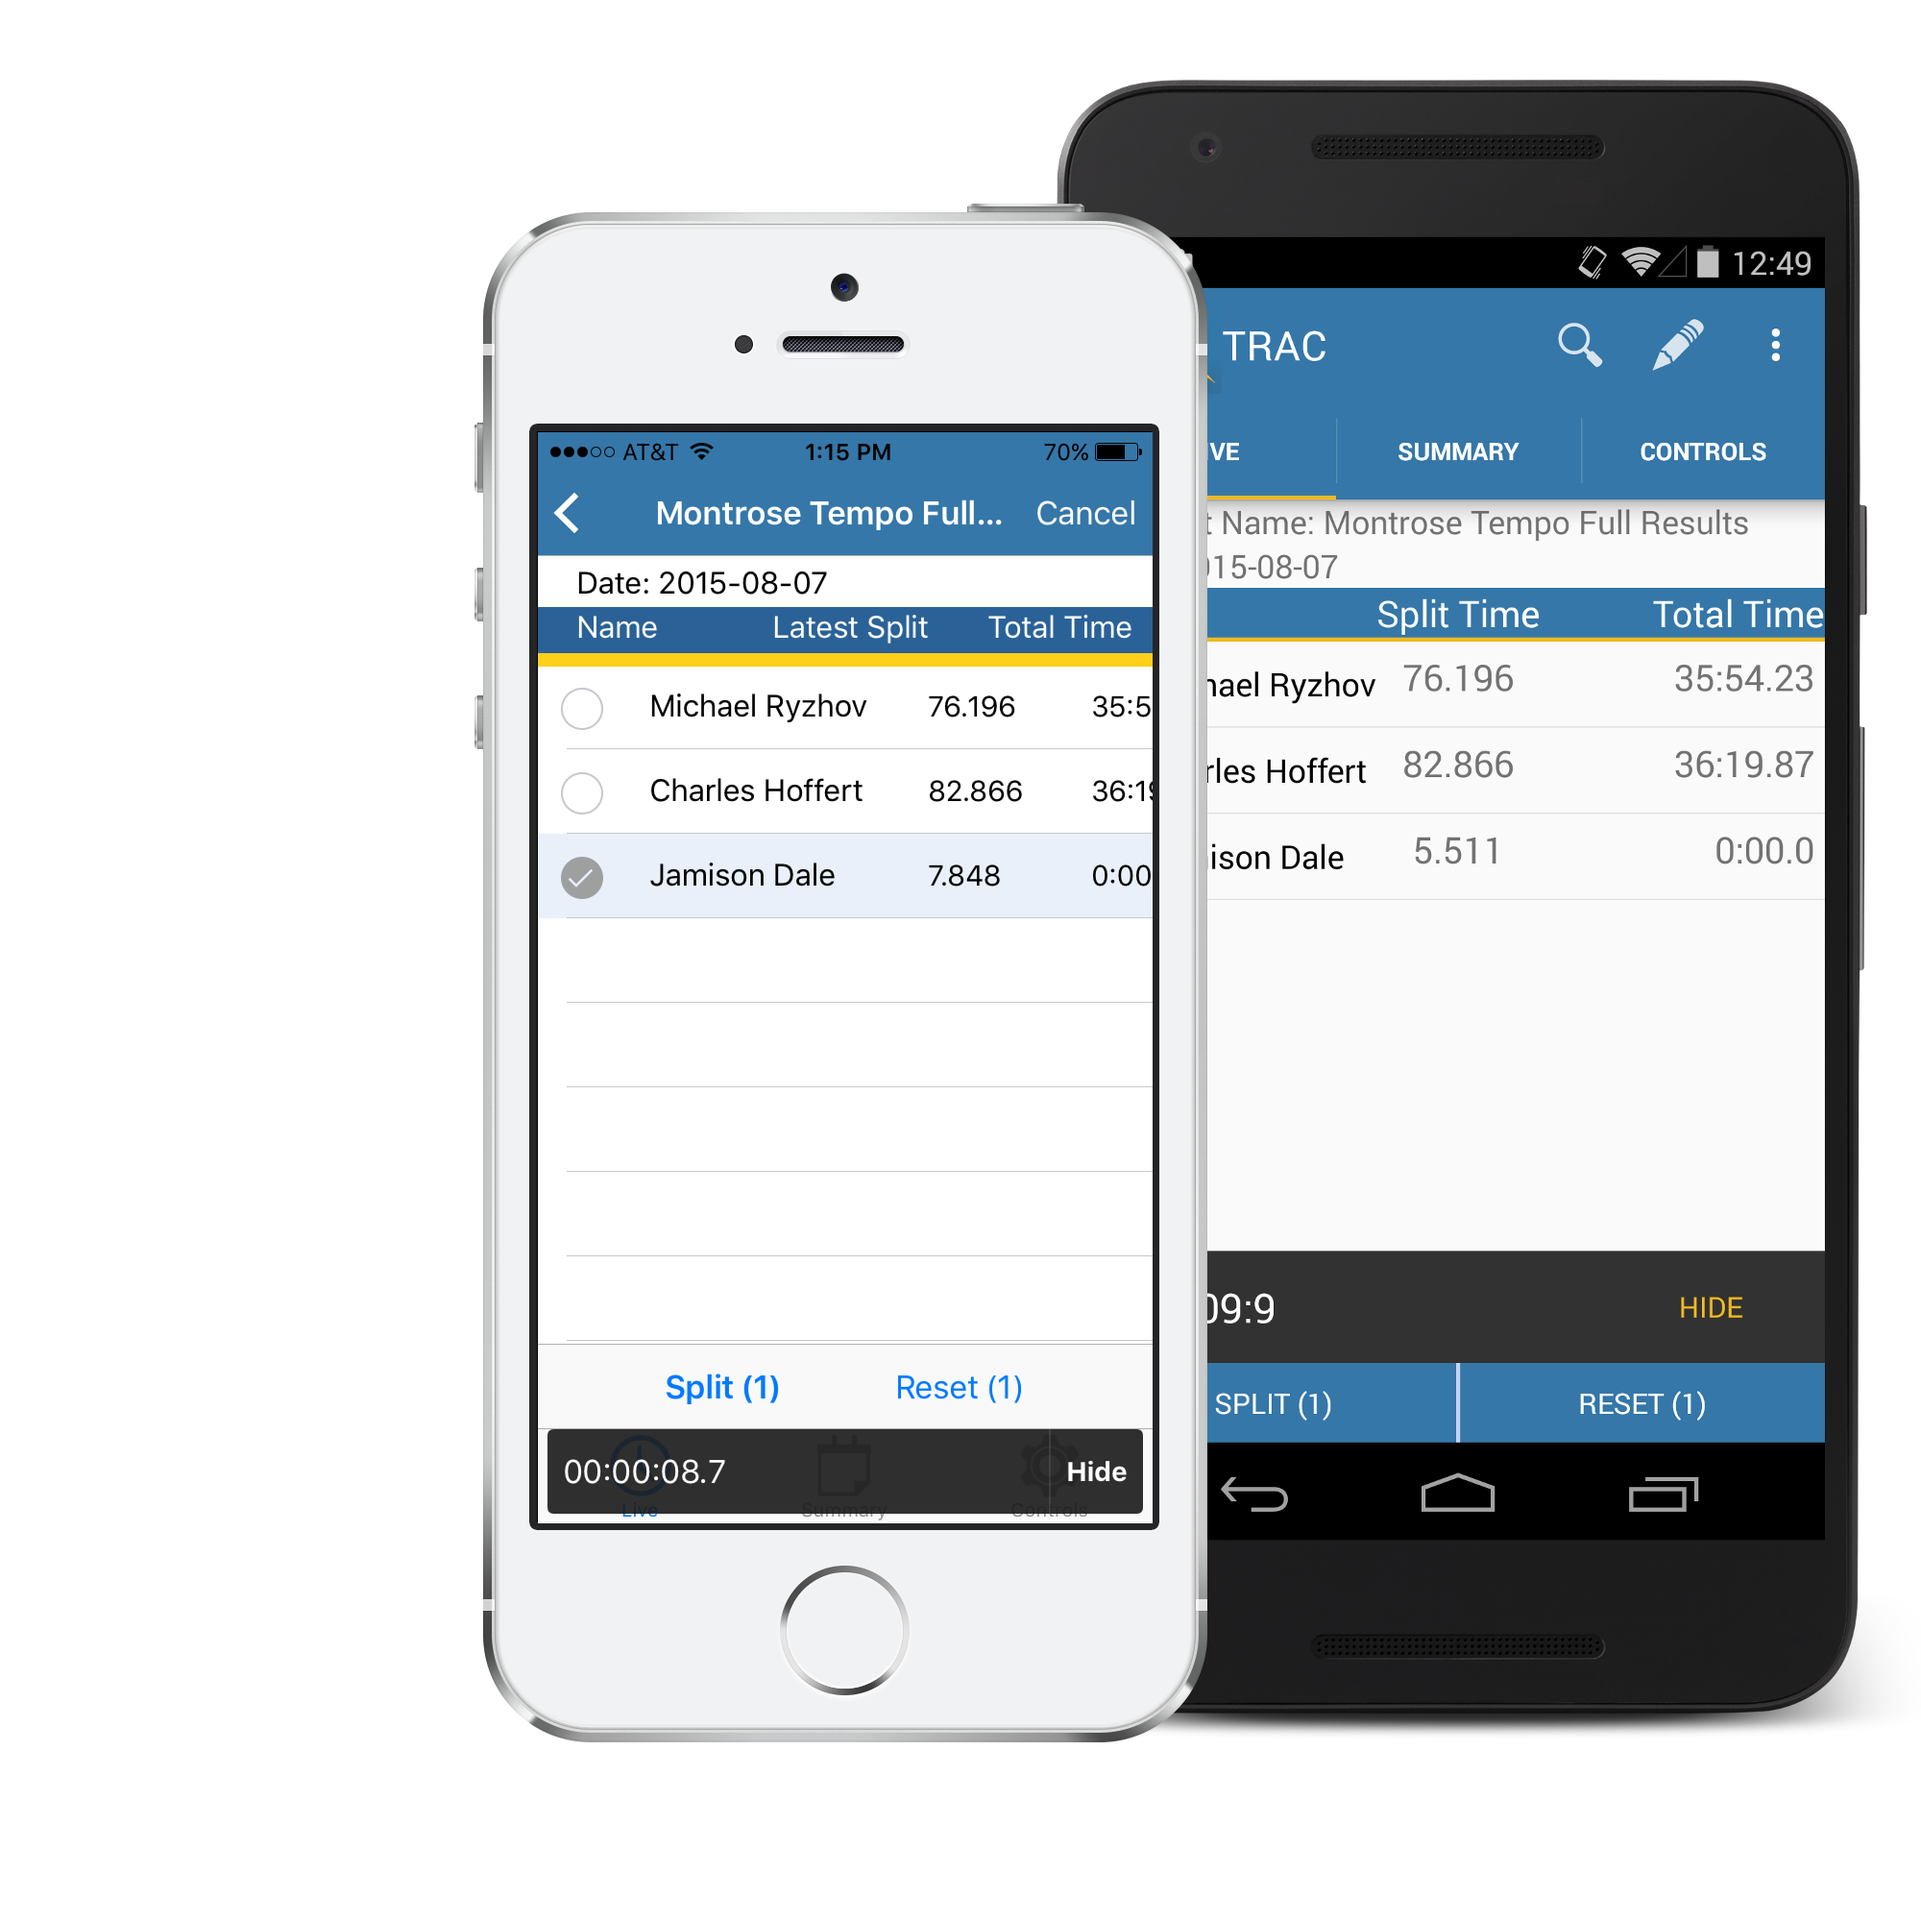
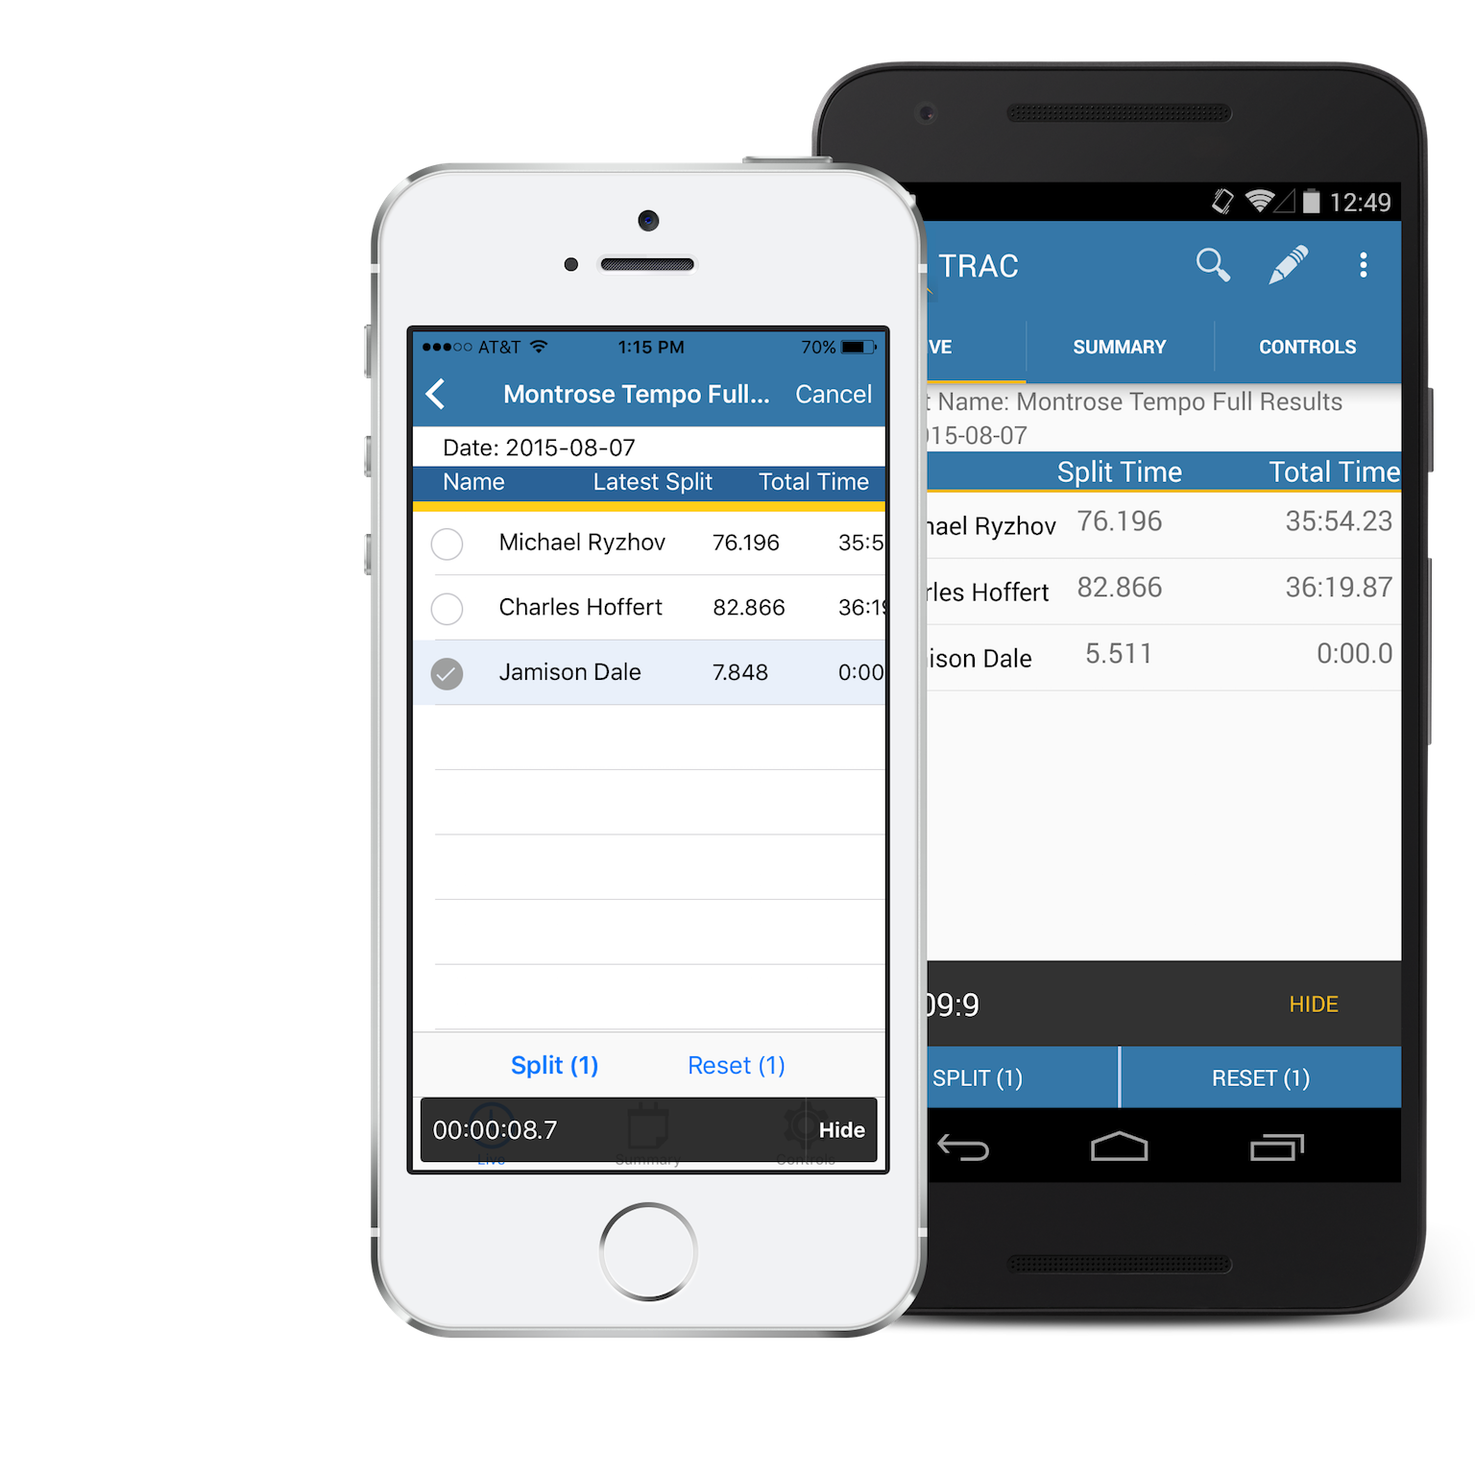
smaller pictures for faster loading

diff --git a/templates/product.html b/templates/product.html
@@ -162,11 +162,10 @@
       </div>
       <div id="navbar" class="navbar-collapse collapse">
         <ul class="nav navbar-nav navbar-right">
-            <li class="hidden-sm hidden-xs"><a href="/#top" class="scrollto" rel="top">Home</a></li>
-            <li><a href="/#bg2" class="scrollto" rel="bg2" onclick="amplitude.logEvent('products');">Product</a></li>
-            <li><a href="/#bg3" class="scrollto" rel="bg3" onclick="amplitude.logEvent('about');">About</a></li>
-            <li><a href="/#bg4" class="scrollto" rel="bg4" onclick="amplitude.logEvent('blog');">Blog</a></li>
-            <li><a href="/#bg5" class="scrollto" rel="bg5" onclick="amplitude.logEvent('team');">Team</a></li>
+            <li><a href="/" onclick="amplitude.logEvent('home');">Home</a></li>
+            <li><a href="/#bg3" onclick="amplitude.logEvent('about');">About</a></li>
+            <li><a href="https://blog.tracchicago.com" onclick="amplitude.logEvent('blog');">Blog</a></li>
+            <li><a href="/#bg5" onclick="amplitude.logEvent('team');">Team</a></li>
             <li><a href="/score/" onclick="amplitude.logEvent('score');">Results</a></li>
             <li><a class="hidden-lg hidden-md"href="/login" class="scrollto" rel="bg6">Login</a></li>
             <li class="hidden-sm hidden-xs"><button class="btn btn-warning" style="margin-top:20%; margin-left:5%" onclick="location.href='/login'; amplitude.logEvent('toLogin');">Log in</button></li>
@@ -194,8 +193,15 @@
             </div>
             <div class="col-lg-7 col-md-7 col-sm-23 col-xs-23">
                <p style="text-align:left">
-              <b><i>Our Hardware:</i></b> Designed to detect any RFID chips that pass by and immediately sends athlete information to the cloud. Can be used for races or practices and easily communicates with other systmes if necessary for additional checkpoints or splits. All controlled via smartphone or browser. Can operate under harsh conditions.<br><br>
-             <b><i>Our Software:</i></b> Designed to scale for any race. The software can be run through your smartphone app or via web browser. Push live text updates or send emails when a friend of family member passes the finish. Finally, review results and compare times too. <br><br>
+                &bull; Works in all weather (even snowstorms!)<br>
+                &bull; Sends results to you immediately (as the race is running)<br>
+                &bull; Portable, less than ten pounds<br>
+                &bull; Controlled by a simple smartphone app<br>
+                &bull; Cost effective, less than half the price of a standard timing system<br>
+                &bull; No extra computers needed<br>
+                &bull; Works with other systems easily<br>
+                &bull; Setup everything in less than 2 minutes<br>
+                &bull; Battery life for more than 6 hours
             </p>
             </div>
         </div>
@@ -235,31 +241,31 @@
         <div class="text hidden-xs">
           <div class="left">
             <p>
-             Run.
+             Run a practice like you normally would. Set your sensor down at the place where you would normally take splits.
             </p>
           </div>
           <div class="mid">
-            <p>Results are streamed.</p>
+            <p>As soon as a runner passes the sensors results are immediatley streamed to the cloud.</p>
           </div>
           <div class="right">
-            <p>View them instantly on your phone.</p>
+            <p>You and any of your assistant coaches can view results as they instantly appear everyones phone.</p>
           </div>
            
         </div>
         <div class="row hidden-lg hidden-md hidden-sm">
           <img src={% static "img/box-01.png" %} height="200px">
           <p>
-              Order everything necessary in preparation for race day. We ship it to you a few days before.
+              Run a practice like you normally would. Set your sensor down at the place where you would normally take splits.
             </p>
           <div class="col-4-xs">
           </div>
           <div class="col-4-xs">
             <img src={% static "img/phone.png" %} height="150px">
-            <p>Run the entire system off your smartphone. No messy cables or equipment.</p>
+             <p>As soon as a runner passes the sensors results are immediatley streamed to the cloud.</p>
           </div>
           <div class="col-4-xs">
             <img src={% static "img/trophy-01.png" %} height="150px">
-            <p>Results are streamed live to the web and immediately available for all participants.</p>
+             <p>You and any of your assistant coaches can view results as they instantly appear everyones phone.</p>
           </div>
         </div>
 
@@ -276,7 +282,7 @@
 
     <div id="bg2" style="background:#222 !important;">
             <div class="content">
-        <h2>Small Races & XC Meets</h2>
+        <h2>Races & XC Meets</h2>
         <br>
           <br>
         <div class="pictures hidden-xs">
@@ -301,7 +307,7 @@
         <div class="text hidden-xs">
           <div class="left">
             <p>
-              Order everything necessary in preparation for race day. We ship it to you a few days before.
+              Order everything necessary in preparation for race day--sensor & bibs. We ship it to you a few days before.
             </p>
           </div>
           <div class="mid">
@@ -340,38 +346,29 @@
 
     <div id="bg2">
           <div class="content">
-        <h2>Big Races</h2>
+        <h2>Software as a Service</h2>
         <br>
           <br>
         <div class="pictures hidden-xs">
-        <div class="left">
-          <img src={% static "img/runningguy.png" %} height="200px">
-        </div>
-        <div class="wifione hidden-xs">
-          <img src={% static "img/wifi.png" %} height="100px">
-        </div>
-        <div class="mid">
-          
-          <img src={% static "img/cloud.png" %} height="150px">
-            
-        </div>
-        <div class="wifitwo hidden-xs">
-          <img src={% static "img/wifi.png" %} height="100px">
-        </div>
-        <div class="right">
-          <img src={% static "img/trophy-01.png" %} height="150px">
-        </div>
+          <div class="row">
+            <img src={% static "img/cloud.png" %} height="100px" style="padding-right:10%">
+            <img src={% static "img/wifi.png" %} height="100px" style="padding-right:10%">
+            <img src={% static "img/trophy-01.png" %} height="150px">
+          </div>
+
         </div>
         <div class="text hidden-xs">
-          <div class="left">
-            <p>
-              Order everything necessary in preparation for race day. We ship it to you a few days before.
-            </p>
-          </div>
-          
-          <div class="right">
-            <p>Results are streamed live to the web and immediately available for all participants.</p>
-          </div>
+          <div class="row">
+            <div class="col-lg-3 col-lg-offset-2">
+              <p>Push your results straight to our cloud platform. We parse the raw times and ID numbers and compute results immediately.</p>
+            </div>
+            <div class="col-lg-3">
+              <p>Unofficail results can be instantly pushed live around the world. Use our platform to push text or email notifications when users pass specific checkpoints.</p>
+            </div>
+            <div class="col-lg-3">
+              <p> View results on our mobile web platform, or just share them internally amongst your team. Finalize results, publish them, and give out awards!</p>
+            </div>
+            </div>
            
         </div>
         <div class="row hidden-lg hidden-md hidden-sm">
@@ -405,14 +402,15 @@
     <div class="container-fluid">
       <div class="row">
         <div class="col-md-3 col-sm-6 footer-item">
-          <img class="footer-img" src= {% static "img/trac_small.gif" %} alt="TRAC" aria-hidden="true" >
+          <a href="/">
+           <img class="footer-img" src= {% static "img/trac_small.gif" %} alt="TRAC" aria-hidden="true" >
+          </a>
         </div>
 
         <div class="col-md-3 col-sm-6 footer-item">
           <div class="internal">
             <a href="https://www.facebook.com/timingracing" onclick="amplitude.logEvent('toFB');"><img src={% static "img/facebook.png" %}></a>
             <a href="http://youtu.be/9OxhM_fiHWo"><img src={% static "img/youtube.png" %} width="50px"></a>
-            <a href="https://angel.co/timing-and-racing-around-the-clock"><img src= {% static "img/angellist.png" %}></a>
             <a href="https://twitter.com/TRAC_Chicago" onclick="amplitude.logEvent('toTwitter');"><img src= {% static "img/twitter2.png" %} style="width:56px"></a>
           </div>
         </div>
@@ -420,9 +418,9 @@
         <div class="col-md-3 col-sm-6 hidden-xs footer-item">
           <div class="external">
             <ul>
-              <li><a href="/bg3" class="scrollto" rel="bg3">About</a></li>
+              <li><a href="/">About</a></li>
               <li><a href="/Tutorial/5/" onclick="amplitude.logEvent('toFAQ');">Frequently Asked Questions</a></li>
-              <li><a href="mailto:founders@tracchicago.com" onclick="amplitude.logEvent('mailto');">Contact us</a></li>
+              <li><a href="mailto:info@tracchicago.com" onclick="amplitude.logEvent('mailto');">Contact us</a></li>
             </ul>
           </div>
         </div>
@@ -430,7 +428,6 @@
         <div class="col-md-3 col-sm-6 footer-item">
           <address style="color:black">
             Timing and Racing Around the Clock<br>
-            The Garage<br>
             2311 Campus Drive<br>
             Evanston, IL 60208<br><br>
           </address>
@@ -572,7 +569,7 @@ $("video").bind("ended", function() {
                   Mass start & wide finish line (<15ft): 2 <br>
                   If you intend to have a chip timed start, that is not the finish, add 1 (>15ft) or 2 (<15ft)<br>
                   For checkpoints, depending on the width, add the necessary number of systems. If races are circular, and start and finish in the same place, the same systems can be used.<br>
-                  For more information contact: founders@tracchicago.com
+                  For more information contact: info@tracchicago.com
 
                 </div>
               </div>
@@ -601,7 +598,7 @@ $("video").bind("ended", function() {
             <br><br>
             To manage your event, and stay updated with your order please create an account: <br><center><button type="submit" id="submit" class="btn btn-primary" style="margin-left:2%; width:250px;" onclick="location.href='/register';" onclick="amplitude.logEvent('Create_Account_Payment_Popup');">Register</button> </center>-->
             <br><br>
-            For more information regarding your order, email <a href="mailto:founders@tracchicago.com" style="color:#3577A8 !important;">founders@tracchicago.com</a>
+            For more information regarding your order, email <a href="mailto:infos@tracchicago.com" style="color:#3577A8 !important;">info@tracchicago.com</a>
             </div>
          </div>
         <div class="modal-footer">

diff --git a/templates/index.html b/templates/index.html
@@ -162,7 +162,6 @@
       </div>
       <div id="navbar" class="navbar-collapse collapse">
         <ul class="nav navbar-nav navbar-right">
-            <li class="hidden-sm hidden-xs"><a href="/#top" class="scrollto" rel="top">Home</a></li>
             <li><a href="/product"  onclick="amplitude.logEvent('products');">Product</a></li>
             <li><a href="/#bg3" class="scrollto" rel="bg3" onclick="amplitude.logEvent('about');">About</a></li>
             <li><a href="https://blog.tracchicago.com" onclick="amplitude.logEvent('blog');">Blog</a></li>
@@ -446,17 +445,7 @@
       </div>
     </div>
 
-    <div id="bg6">
-      <div class="content">
-        <h2>CONTACT US</h2>
-        <br>
-          <br>
-        <p>For more information regarding Timing and Racing Around the Clock or about purchasing one of our systems reach us at:</p>
-        <br>
-          <br>
-         <h3><a href="mailto:founders@tracchicago.com?subject=TRAC System Interest&body=Hi TRAC Team, I am interested in more information regarding your timing system." onclick="amplitude.logEvent('mailto');">founders@tracchicago.com</a></h3>
-      </div>
-    </div>
+
 
 <!--Footer Addition -->
  <footer class="footer">
@@ -472,7 +461,6 @@
           <div class="internal">
             <a href="https://www.facebook.com/timingracing" onclick="amplitude.logEvent('toFB');"><img src={% static "img/facebook.png" %}></a>
             <a href="http://youtu.be/9OxhM_fiHWo"><img src={% static "img/youtube.png" %} width="50px"></a>
-            <a href="https://angel.co/timing-and-racing-around-the-clock"><img src= {% static "img/angellist.png" %}></a>
             <a href="https://twitter.com/TRAC_Chicago" onclick="amplitude.logEvent('toTwitter');"><img src= {% static "img/twitter2.png" %} style="width:56px"></a>
           </div>
         </div>
@@ -480,9 +468,9 @@
         <div class="col-md-3 col-sm-6 hidden-xs footer-item">
           <div class="external">
             <ul>
-              <li><a href="/bg3" class="scrollto" rel="bg3">About</a></li>
+              <li><a href="/#bg3" class="scrollto" rel="bg3">About</a></li>
               <li><a href="/Tutorial/5/" onclick="amplitude.logEvent('toFAQ');">Frequently Asked Questions</a></li>
-              <li><a href="mailto:founders@tracchicago.com" onclick="amplitude.logEvent('mailto');">Contact us</a></li>
+              <li><a href="mailto:info@tracchicago.com" onclick="amplitude.logEvent('mailto');">Contact us</a></li>
             </ul>
           </div>
         </div>
@@ -490,7 +478,6 @@
         <div class="col-md-3 col-sm-6 footer-item">
           <address style="color:black">
             Timing and Racing Around the Clock<br>
-            The Garage<br>
             2311 Campus Drive<br>
             Evanston, IL 60208<br><br>
           </address>
@@ -632,7 +619,7 @@ $("video").bind("ended", function() {
                   Mass start & wide finish line (<15ft): 2 <br>
                   If you intend to have a chip timed start, that is not the finish, add 1 (>15ft) or 2 (<15ft)<br>
                   For checkpoints, depending on the width, add the necessary number of systems. If races are circular, and start and finish in the same place, the same systems can be used.<br>
-                  For more information contact: founders@tracchicago.com
+                  For more information contact: info@tracchicago.com
 
                 </div>
               </div>
@@ -661,7 +648,7 @@ $("video").bind("ended", function() {
             <br><br>
             To manage your event, and stay updated with your order please create an account: <br><center><button type="submit" id="submit" class="btn btn-primary" style="margin-left:2%; width:250px;" onclick="location.href='/register';" onclick="amplitude.logEvent('Create_Account_Payment_Popup');">Register</button> </center>-->
             <br><br>
-            For more information regarding your order, email <a href="mailto:founders@tracchicago.com" style="color:#3577A8 !important;">founders@tracchicago.com</a>
+            For more information regarding your order, email <a href="mailto:info@tracchicago.com" style="color:#3577A8 !important;">info@tracchicago.com</a>
             </div>
          </div>
         <div class="modal-footer">

diff --git a/templates/base_new.html b/templates/base_new.html
@@ -159,7 +159,6 @@
 					<div class="internal">
 						<a href="https://www.facebook.com/timingracing"><img src={% static "img/facebook.png" %}></a>
 						<a href="http://youtu.be/9OxhM_fiHWo"><img src={% static "img/youtube.png" %} width="50px"></a>
-						<a href="https://angel.co/timing-and-racing-around-the-clock"><img src={% static "img/angellist.png" %}></a>
 						 <a href="https://twitter.com/TRAC_Chicago"><img src= {% static "img/twitter2.png" %} style="width:56px"></a>
 					</div>
 				</div>
@@ -170,7 +169,7 @@
 							<li><a href="/#bg3" class="scrollto" rel="bg3">About</a></li>
 							<li><a href="/faqs/" class="scrollto" rel="bg4">Frequently Asked Questions</a></li>
 							<li><a href="/privacy/">Privacy</a> <a style="cursor:pointer">&</a> <a href="/terms/">Terms</a></li>
-							<li><a href="mailto:info@trac-us.com">Contact us</a></li>
+							<li><a href="mailto:info@tracchicago.com">Contact us</a></li>
                             <li><a href="/docs/">API Docs</a></li>
 						</ul>
 					</div>
@@ -179,7 +178,6 @@
 				<div class="col-md-3 col-sm-6 footer-item">
 					<address>
 						Timing and Racing Around the Clock<br>
-            			The Garage<br>
 			            2311 Campus Drive<br>
 			            Evanston, IL 60208<br><br>
 					</address>
